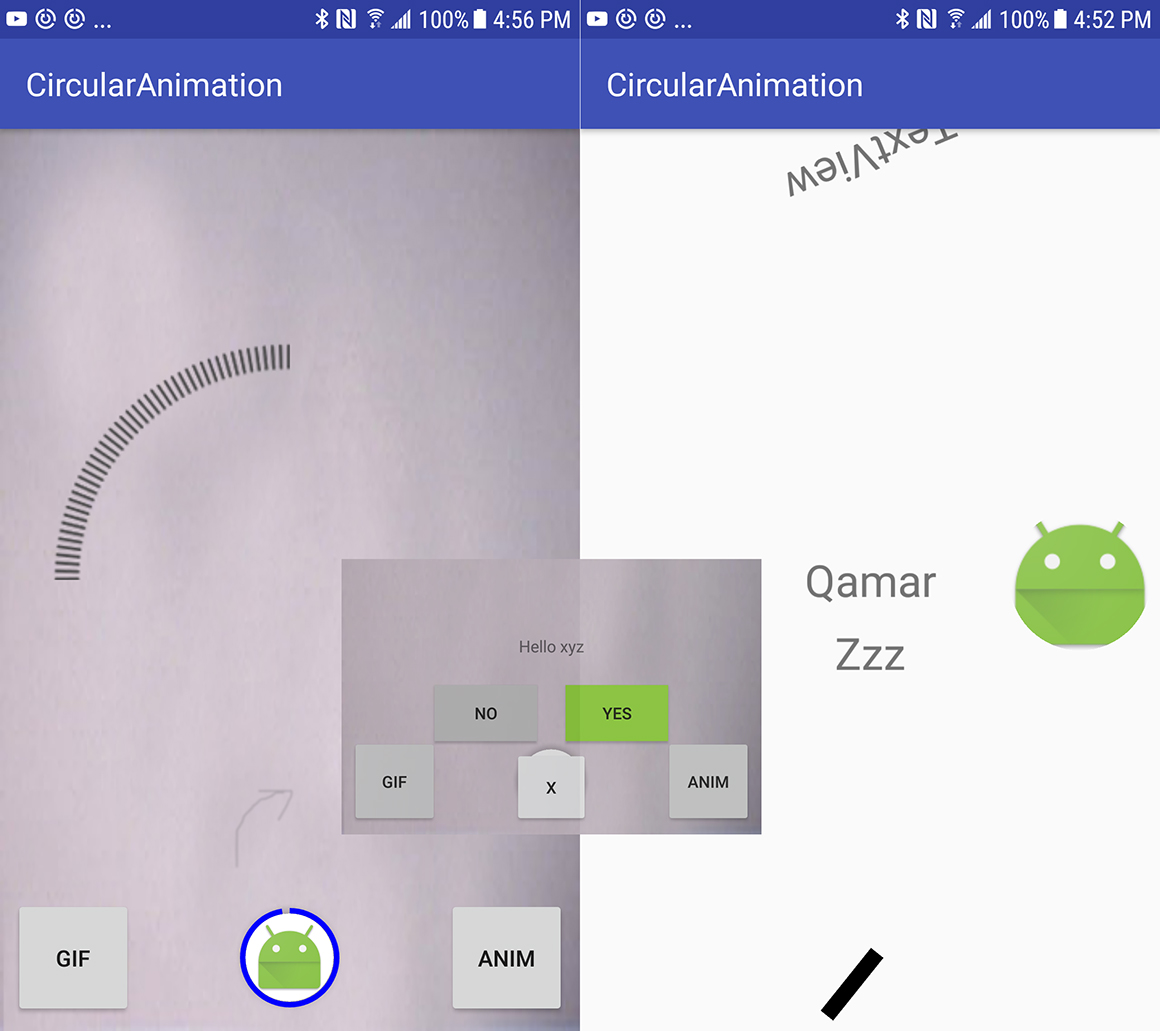
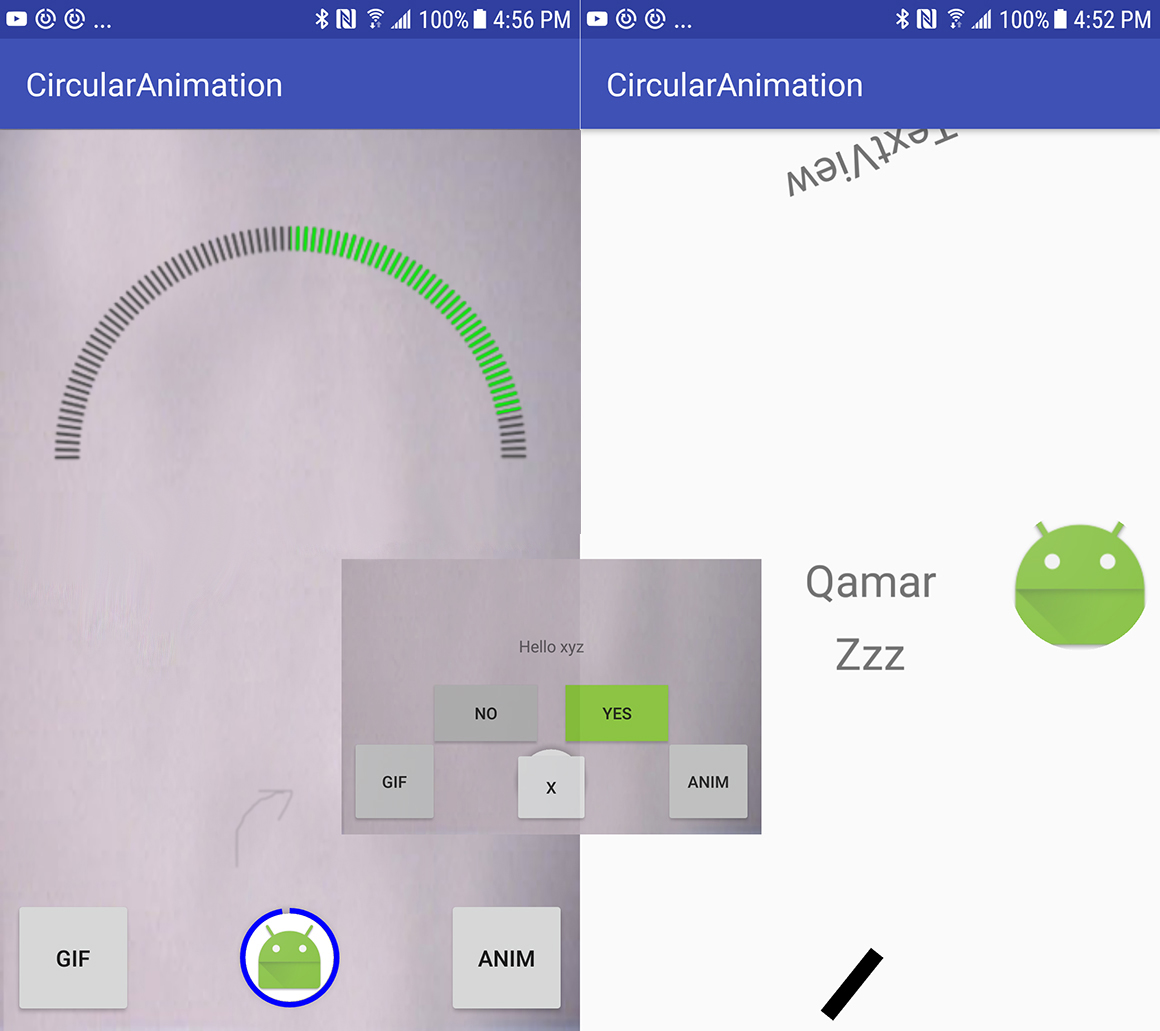
improve gage meter and add tint color function

diff --git a/app/src/main/java/com/qamar4p/circularanimation/custom_views/GageMeterView.java b/app/src/main/java/com/qamar4p/circularanimation/custom_views/GageMeterView.java
@@ -1,4 +1,4 @@
-package com.qamar4p.circularanimation;
+package com.qamar4p.circularanimation.custom_views;
 
 import android.animation.Animator;
 import android.animation.ValueAnimator;
@@ -8,19 +8,18 @@ import android.graphics.BitmapFactory;
 import android.graphics.BitmapShader;
 import android.graphics.Canvas;
 import android.graphics.Color;
+import android.graphics.ColorFilter;
 import android.graphics.Paint;
 import android.graphics.Path;
 import android.graphics.PorterDuff;
+import android.graphics.PorterDuffColorFilter;
 import android.graphics.PorterDuffXfermode;
 import android.graphics.RectF;
 import android.graphics.Shader;
 import android.os.Build;
 import android.support.annotation.Nullable;
 import android.util.AttributeSet;
-import android.util.Log;
-import android.view.MotionEvent;
 import android.view.View;
-import android.view.animation.AccelerateDecelerateInterpolator;
 import android.widget.Toast;
 
 /**
@@ -113,7 +112,7 @@ public class GageMeterView extends View {
     /**
      * The time it takes in milliseconds to animate the progress to the next set value.
      */
-    private int mIncrementDuration = 500;
+    private int mIncrementDuration = 1000;
 
     /**
      * The blur radius of the drop shadow.
@@ -185,14 +184,20 @@ public class GageMeterView extends View {
      * Set the resource id of the icon to use in the middle of the circle view.
      * @param resourceId The resource id of the drawable.
      */
-    public void setHiLightImage(int resourceId) {
+    public void setHiLightImage(int resourceId, int color) {
         Bitmap bitmap = BitmapFactory.decodeResource(getContext().getResources(), resourceId);
-        mIconImage = bitmap;
+//        mIconImage = bitmap;
+//        mBitPaint.setShader(new BitmapShader(mIconImage, Shader.TileMode.CLAMP, Shader.TileMode.CLAMP));
+
+        mIconImage = Bitmap.createScaledBitmap(bitmap,getWidth(),getHeight(),false);
         mBitPaint.setShader(new BitmapShader(mIconImage, Shader.TileMode.CLAMP, Shader.TileMode.CLAMP));
+//        ColorFilter filter = new PorterDuffColorFilter(ContextCompat.getColor(this, R.color.COLOR_1_DARK), PorterDuff.Mode.SRC_IN);
+        ColorFilter filter = new PorterDuffColorFilter(color, PorterDuff.Mode.SRC_IN);
+        mBitPaint.setColorFilter(filter);
 
     }
 
-//    @Override
+    //    @Override
 //    public boolean onTouchEvent(MotionEvent event) {
 //        int x = (int) event.getX();
 //        int y = (int) event.getY();
@@ -308,53 +313,9 @@ public class GageMeterView extends View {
         final float halfWidth = canvas.getWidth()/2;
         final float halfHeight = canvas.getHeight()/2;
         final float radius = Math.max(halfWidth, halfHeight);
-        final Path path = new Path();
+//        final Path path = new Path();
 
-        float delta = radius;
-//        double x = radius + (radius)*Math.cos(-mRotation * mProgress);
-//        double y = radius + (radius)*Math.sin(-mRotation * mProgress);
-//        float delta = mShadowRadius + (mBorderWidth / 2);
-//        path.addCircle(halfWidth, halfHeight, radius, Path.Direction.CCW);
-        if(Build.VERSION.SDK_INT >= 21){
-            path.addArc(
-                    halfWidth - delta, // left
-                    halfHeight - delta, // right
-                    getWidth() + delta, // right
-                    getHeight() + delta, // bottom
-                    mStartAngle, // start angle
-                    mRotation * mProgress // sweep
-            );
-        }else {
-            oval.set(
-                    0 + delta, // left
-                    0 + delta, // right
-                    getWidth() - delta, // right
-                    getHeight() - delta); // bottom);
-
-            path.addArc(oval,
-                    mStartAngle, // start angle
-                    mRotation * mProgress// sweep
-            );
-        }
-        Log.d(TAG,"startAngle:"+mStartAngle);
-        Log.d(TAG,"mProgress:"+ mProgress);
-        Log.d(TAG,"sweepAngle:"+mRotation * mProgress);
-        path.close();
-        mPath.reset();
-//        mPath.addRect(getLeft(),getTop(),getRight(),getBottom(), Path.Direction.CW);
-        mPath.addPath(path);
-        mPath.setFillType(Path.FillType.EVEN_ODD);
-        mPath.close();
-
-//        mPath.reset();
-//        mPath.moveTo((float) canvas.getWidth() * mProgress, 0.0f);
-//        mPath.lineTo((float) canvas.getWidth() * mProgress, canvas.getHeight());
-//        mPath.lineTo(canvas.getWidth(), canvas.getHeight());
-//        mPath.lineTo(canvas.getWidth(), 0.0f);
-//        mPath.close();
-//        canvas.clipPath(mPath);
         super.onDraw(canvas);
-//        if(mProgress == 0) canvas.drawPaint(mBackgroundPaint);
         if(mProgress > 0) {
 //        canvas.drawPath(mPath,mArcPaint);
 //        canvas.drawCircle(cx, cy, getWidth() / 2 - mShadowRadius - DEFAULT_BORDER_WIDTH, mShadowPaint);
@@ -368,10 +329,10 @@ public class GageMeterView extends View {
 //            canvas.drawColor(Color.TRANSPARENT, PorterDuff.Mode.CLEAR);
 
                 canvas.drawArc(
-                        0 - delta, // left
-                        0 - delta, // right
-                        getWidth() + delta, // right
-                        getHeight() + delta, // bottom
+                        0 - radius, // left
+                        0 - radius, // right
+                        getWidth() + radius, // right
+                        getHeight() + radius + (radius * 0.0f /*this is require if image is half circle*/), // bottom
                         mStartAngle, // start angle
                         mRotation * mProgress, // sweep
                         true, // use center
@@ -379,10 +340,10 @@ public class GageMeterView extends View {
                 );
             } else {
                 oval.set(
-                        0 + delta, // left
-                        0 + delta, // right
-                        getWidth() - delta, // right
-                        getHeight() - delta); // bottom);
+                        0 + radius, // left
+                        0 + radius, // right
+                        getWidth() - radius + (radius * 0.0f /*this is require if image is half circle*/), // right
+                        getHeight() - radius); // bottom);
 
                 canvas.drawArc(oval,
                         mStartAngle, // start angle
@@ -429,10 +390,24 @@ public class GageMeterView extends View {
             return;
         }
 
+        if (progress >= 1f) {
+            mToProgress = mProgress = 1;
+            invalidate();
+            return;
+        }
+
+        mIncrementDuration = (int) (toProgress * 1800f);
+
         mValueAnimator.cancel();
+        mValueAnimator.setDuration(mIncrementDuration);
         mValueAnimator.setFloatValues(mToProgress, toProgress);
         mValueAnimator.start();
 
+    }
+
+    public void resetAnim() {
+        mToProgress = mProgress = 0;
+        invalidate();
     }
 
     /**

diff --git a/app/src/main/java/com/qamar4p/circularanimation/MainActivity.java b/app/src/main/java/com/qamar4p/circularanimation/MainActivity.java
@@ -2,6 +2,7 @@ package com.qamar4p.circularanimation;
 
 import android.content.Context;
 import android.content.Intent;
+import android.graphics.Color;
 import android.graphics.Rect;
 import android.support.v7.app.AppCompatActivity;
 import android.os.Bundle;
@@ -11,6 +12,9 @@ import android.view.View;
 import android.widget.FrameLayout;
 import android.widget.PopupWindow;
 import android.widget.Toast;
+
+import com.qamar4p.circularanimation.custom_views.CircleProgressView;
+import com.qamar4p.circularanimation.custom_views.GageMeterView;
 
 public class MainActivity extends AppCompatActivity {
 
@@ -33,21 +37,32 @@ public class MainActivity extends AppCompatActivity {
         velocityTracker = VelocityTracker.obtain();
 
 //        view1 = findViewById (R.id.view1);
-        findViewById (R.id.button1).setOnClickListener(new View.OnClickListener() {
+        findViewById (R.id.button2).setOnClickListener(new View.OnClickListener() {
             @Override
             public void onClick(View view) {
                 startActivity(new Intent(context,Main2Activity.class));
             }
         });
-        findViewById (R.id.button2).setOnClickListener(new View.OnClickListener() {
+        findViewById (R.id.button3).setOnClickListener(new View.OnClickListener() {
             @Override
             public void onClick(View view) {
                 startActivity(new Intent(context,Main3Activity.class));
             }
         });
+        findViewById (R.id.button4).setOnClickListener(new View.OnClickListener() {
+            @Override
+            public void onClick(View view) {
+                startActivity(new Intent(context,Main4Activity.class));
+            }
+        });
         buttonPrimary = findViewById (R.id.buttonPrimary);
         imageFreqDiffView = findViewById (R.id.imageFreqDiff);
-        imageFreqDiffView.setHiLightImage(R.drawable.gage_animation_circle_green);
+        imageFreqDiffView.post(new Runnable() {
+            @Override
+            public void run() {
+                imageFreqDiffView.setHiLightImage(R.drawable.gage_animation_circle, Color.GREEN);
+            }
+        });
 
         imageFreqDiffView.setOnClickListener(new View.OnClickListener() {
             public boolean isToLeft = true;

diff --git a/app/src/main/java/com/qamar4p/circularanimation/Main3Activity.java b/app/src/main/java/com/qamar4p/circularanimation/Main3Activity.java
@@ -5,6 +5,11 @@ import android.os.Bundle;
 import android.view.View;
 import android.widget.TextView;
 
+import com.qamar4p.circularanimation.custom_views.CircleRevealHideView;
+import com.qamar4p.circularanimation.helpers.RotateAnimator;
+import com.qamar4p.circularanimation.helpers.ScaleBouncingAnimator;
+import com.qamar4p.circularanimation.helpers.StickAnimator;
+
 public class Main3Activity extends AppCompatActivity {
 
     private TextView textView1;
@@ -111,7 +116,7 @@ public class Main3Activity extends AppCompatActivity {
 //                set.start();
 //                Toast.makeText(getApplicationContext(),"H",Toast.LENGTH_SHORT).show();
 
-                new LoliAnimator(findViewById(R.id.loliView)).play();
+                new StickAnimator(findViewById(R.id.loliView)).play();
                 new RotateAnimator(textView1,0,360).play(800);
                 new ScaleBouncingAnimator(textView2,textView3).play();
 

diff --git a/app/src/main/java/com/qamar4p/circularanimation/helpers/StickAnimator.java b/app/src/main/java/com/qamar4p/circularanimation/helpers/StickAnimator.java
@@ -1,4 +1,4 @@
-package com.qamar4p.circularanimation;
+package com.qamar4p.circularanimation.helpers;
 
 import android.animation.Animator;
 import android.animation.AnimatorListenerAdapter;
@@ -15,12 +15,12 @@ import java.util.List;
  * Created by Qamar on 7/5/2017.
  */
 
-public class LoliAnimator {
+public class StickAnimator {
 
     private final View mView;
     private final AnimatorSet animatorSet;
 
-    public LoliAnimator(View view){
+    public StickAnimator(View view){
         mView = view;
         animatorSet = animRotate(150,0,55,new AnimatorListenerAdapter(){
             @Override public void onAnimationEnd(Animator animation) {

diff --git a/app/src/main/java/com/qamar4p/circularanimation/Main4Activity.java b/app/src/main/java/com/qamar4p/circularanimation/Main4Activity.java
@@ -1,0 +1,13 @@
+package com.qamar4p.circularanimation;
+
+import android.support.v7.app.AppCompatActivity;
+import android.os.Bundle;
+
+public class Main4Activity extends AppCompatActivity {
+
+    @Override
+    protected void onCreate(Bundle savedInstanceState) {
+        super.onCreate(savedInstanceState);
+        setContentView(R.layout.activity_main4);
+    }
+}

diff --git a/app/src/main/java/com/qamar4p/circularanimation/helpers/SpringAnimationUtil.java b/app/src/main/java/com/qamar4p/circularanimation/helpers/SpringAnimationUtil.java
@@ -1,4 +1,4 @@
-package com.qamar4p.circularanimation;
+package com.qamar4p.circularanimation.helpers;
 
 import android.support.animation.DynamicAnimation;
 import android.support.animation.SpringAnimation;

diff --git a/app/src/main/java/com/qamar4p/circularanimation/helpers/ScaleBouncingAnimator.java b/app/src/main/java/com/qamar4p/circularanimation/helpers/ScaleBouncingAnimator.java
@@ -1,4 +1,4 @@
-package com.qamar4p.circularanimation;
+package com.qamar4p.circularanimation.helpers;
 
 import android.animation.Animator;
 import android.animation.AnimatorListenerAdapter;

diff --git a/app/src/main/java/com/qamar4p/circularanimation/custom_views/CircleProgressView.java b/app/src/main/java/com/qamar4p/circularanimation/custom_views/CircleProgressView.java
@@ -1,4 +1,4 @@
-package com.qamar4p.circularanimation;
+package com.qamar4p.circularanimation.custom_views;
 
 import android.animation.Animator;
 import android.animation.ValueAnimator;

diff --git a/app/src/main/java/com/qamar4p/circularanimation/custom_views/CircleRevealHideView.java b/app/src/main/java/com/qamar4p/circularanimation/custom_views/CircleRevealHideView.java
@@ -1,4 +1,4 @@
-package com.qamar4p.circularanimation;
+package com.qamar4p.circularanimation.custom_views;
 
 import android.animation.Animator;
 import android.animation.ValueAnimator;

diff --git a/app/src/main/java/com/qamar4p/circularanimation/helpers/RotateAnimator.java b/app/src/main/java/com/qamar4p/circularanimation/helpers/RotateAnimator.java
@@ -1,4 +1,4 @@
-package com.qamar4p.circularanimation;
+package com.qamar4p.circularanimation.helpers;
 
 import android.view.View;
 import android.view.animation.Animation;

diff --git a/app/src/main/java/com/qamar4p/circularanimation/helpers/TouchRelativeLayout.java b/app/src/main/java/com/qamar4p/circularanimation/helpers/TouchRelativeLayout.java
@@ -1,4 +1,4 @@
-package com.qamar4p.circularanimation;
+package com.qamar4p.circularanimation.helpers;
 
 import android.content.Context;
 import android.graphics.Rect;
